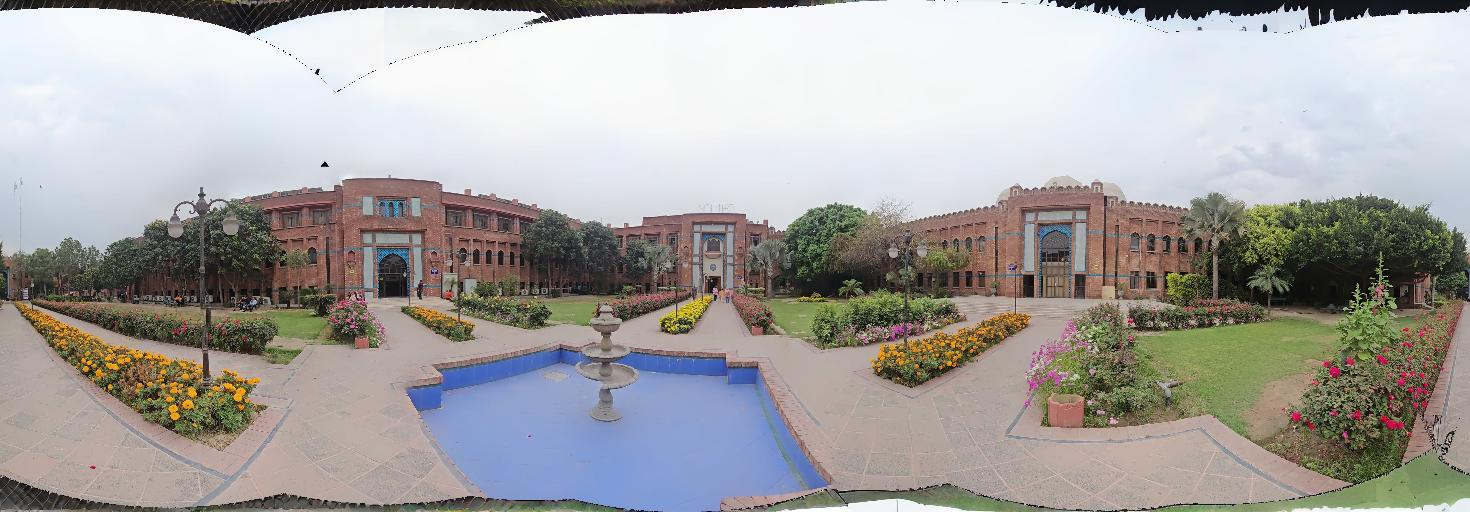
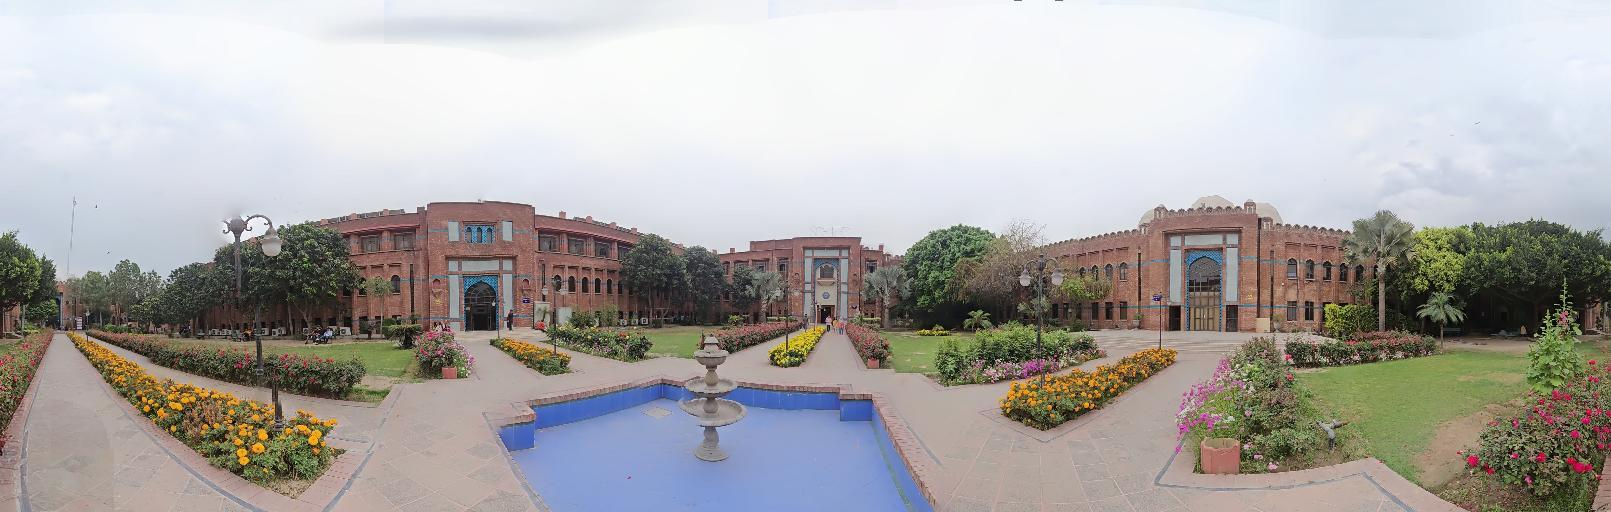
Error messages

diff --git a/envision/src/components/PreviewImage.js b/envision/src/components/PreviewImage.js
@@ -222,11 +222,11 @@ const PreviewImage = ({ imagelist, thresh, image }) => {
                     <CircularProgress />
                 </div>
                 :
-            <div className='image-viewer'>
-                {(!rendering && !adjust) &&
-                    <ImageViewer src={'http://localhost:8000' + completedImage} />
-                }
-                {adjust &&
+                <div className='image-viewer'>
+                    {(!rendering && !adjust) &&
+                        <ImageViewer src={'http://localhost:8000' + completedImage} />
+                    }
+                    {adjust &&
                         <>
                             {loading ?
                                 <div className='d-flex justify-content-center align-items-center' style={{ height: '100vh', width: '99vw', backgroundColor: 'grey' }}>
@@ -259,23 +259,23 @@ const PreviewImage = ({ imagelist, thresh, image }) => {
                             </Stage>
                         </>
                     }
-                <div className='button-container'>
-                    <ThemeProvider theme={theme}>
-                        {!adjust ? <>
-                            <TextField id="outlined-basic" label="Title" variant="outlined" onChange={(e) => setTitle(e.target.value)} />
-                            <Button onClick={handleSave} variant='contained' color='success' sx={{ borderRadius: '20px', letterSpacing: '1px', padding: '10px 40px', margin: '30px 0px' }}>Save</Button>
-                            <Button onClick={handleStitchImages} variant='contained' sx={{ borderRadius: '20px', letterSpacing: '1px', padding: '10px 40px' }}>Re-Render</Button>
-                            <Button onClick={handleGapFilling} variant='contained' sx={{ borderRadius: '20px', letterSpacing: '1px', padding: '10px 40px' }}>Gap filling</Button>
+                    <div className='button-container'>
+                        <ThemeProvider theme={theme}>
+                            {!adjust ? <>
+                                <TextField id="outlined-basic" label="Title" variant="outlined" onChange={(e) => setTitle(e.target.value)} />
+                                <Button onClick={handleSave} variant='contained' color='success' sx={{ borderRadius: '20px', letterSpacing: '1px', padding: '10px 40px' }}>Save</Button>
+                                <Button onClick={handleStitchImages} variant='contained' sx={{ borderRadius: '20px', letterSpacing: '1px', padding: '10px 40px', margin: '30px 0px' }}>Re-Render</Button>
+                                <Button onClick={handleGapFilling} variant='contained' sx={{ borderRadius: '20px', letterSpacing: '1px', padding: '10px 40px' }}>Gap filling</Button>
 
-                        </> : <>
-                            <TextField label="Prompt" color="success" id="fullWidth" sx={{ margin: '30px 0px' }} />
-                            <TextField label="Negative Prompt" color='red' id="fullWidth" />
-                        </>}
-                        <br />
-                        <Button onClick={() => setAdjust(!adjust)} variant='contained' sx={{ borderRadius: '20px', letterSpacing: '1px', padding: '10px 40px' }}>{adjust ? 'Back' : 'Adjust Image'}</Button>
+                            </> : <>
+                                <TextField label="Prompt" color="success" id="fullWidth" sx={{ margin: '30px 0px' }} />
+                                <TextField label="Negative Prompt" color='red' id="fullWidth" />
+                            </>}
+                            <br />
+                            <Button onClick={() => setAdjust(!adjust)} variant='contained' sx={{ borderRadius: '20px', letterSpacing: '1px', padding: '10px 40px' }}>{adjust ? 'Back' : 'Adjust Image'}</Button>
 
-                    </ThemeProvider>
-                </div>
+                        </ThemeProvider>
+                    </div>
                 </div>
             }
             <Snackbar

diff --git a/envision/src/Generate.js b/envision/src/Generate.js
@@ -118,10 +118,12 @@ const Generate = () => {
                             setImg(true);
                             setDownloadedImages(response.data.downloaded_images);
                         }
+                        setMessage('Image stitching failed')
                         console.error('Failed:', response.data.message);
                         setIsLoading(false)
                     }
-                } catch (error) {
+                } catch (error) {                        
+                    setMessage('Could not find entered location')
                     setIsLoading(false)
                     console.error('Error setting location or coordinates:', error);
                 }
@@ -143,11 +145,13 @@ const Generate = () => {
                         setThreshold(Math.max(1, response.data['threshold'] - 1))
                         setGenerating(false);
                     } else {
+                        setMessage('Image stitching failed')
                         console.error('Image stitching failed:', response.data.message);
                         setIsLoading(false)
                     }
                 } catch (error) {
                     setIsLoading(false)
+                    setMessage('Error uploading images')
                     console.error('Error uploading images:', error);
                 }
                 break;
@@ -175,8 +179,8 @@ const Generate = () => {
                 }
                 break;
             case 3:
-                if (selectedFiles.length === 0) {
-                    setMessage('Must upload at least 1 image.');
+                if (selectedFiles.length < 2) {
+                    setMessage('Must upload at least 2 images.');
                     setOpen(true);
                     return;
                 }
@@ -291,6 +295,7 @@ const Generate = () => {
                                                                 <input
                                                                     type="file"
                                                                     className="file-input"
+                                                                    accept="image/*"
                                                                     multiple
                                                                     onChange={handleFileInputChange}
                                                                 />

diff --git a/envision_backend/api/views.py b/envision_backend/api/views.py
@@ -138,7 +138,7 @@ class WebScrape(APIView):
 
                 try:
 
-                    for i in range(start, 0, -1):
+                    for i in range(start, 6, -1):
                         print(i)
                         try:
                             stitcher = Stitcher(
@@ -215,6 +215,16 @@ class StitchImage(APIView):
         print(request.data)
         start = int(request.data["thresh"])
         uploaded_images = request.data.getlist("images[]")
+        stitched_image_url = os.path.join(
+                        settings.MEDIA_URL, "stitched_image.jpg"
+                    ).replace("\\", "/")
+        return JsonResponse(
+            {
+                "success": True,
+                "stitched_image_url": stitched_image_url,
+                "threshold": 10,
+            }
+        )
 
         if not uploaded_images:
             return Response(
@@ -254,6 +264,7 @@ class StitchImage(APIView):
                     stitched_image_path = os.path.join(
                         settings.MEDIA_ROOT, "stitched_image.jpg"
                     )
+                    stitched_img = stitched_img[:-200, :]
                     cv2.imwrite(stitched_image_path, stitched_img)
                     stitched_image_url = os.path.join(
                         settings.MEDIA_URL, "stitched_image.jpg"
@@ -647,7 +658,7 @@ class DeleteComment(APIView):
                 {"error": "Comment not found"}, status=status.HTTP_404_NOT_FOUND
             )
 
-path = 'https://afc9-34-42-38-67.ngrok-free.app/'
+path = 'https://a184-34-75-138-237.ngrok-free.app/'
 
 
 class GapFilling(APIView):
